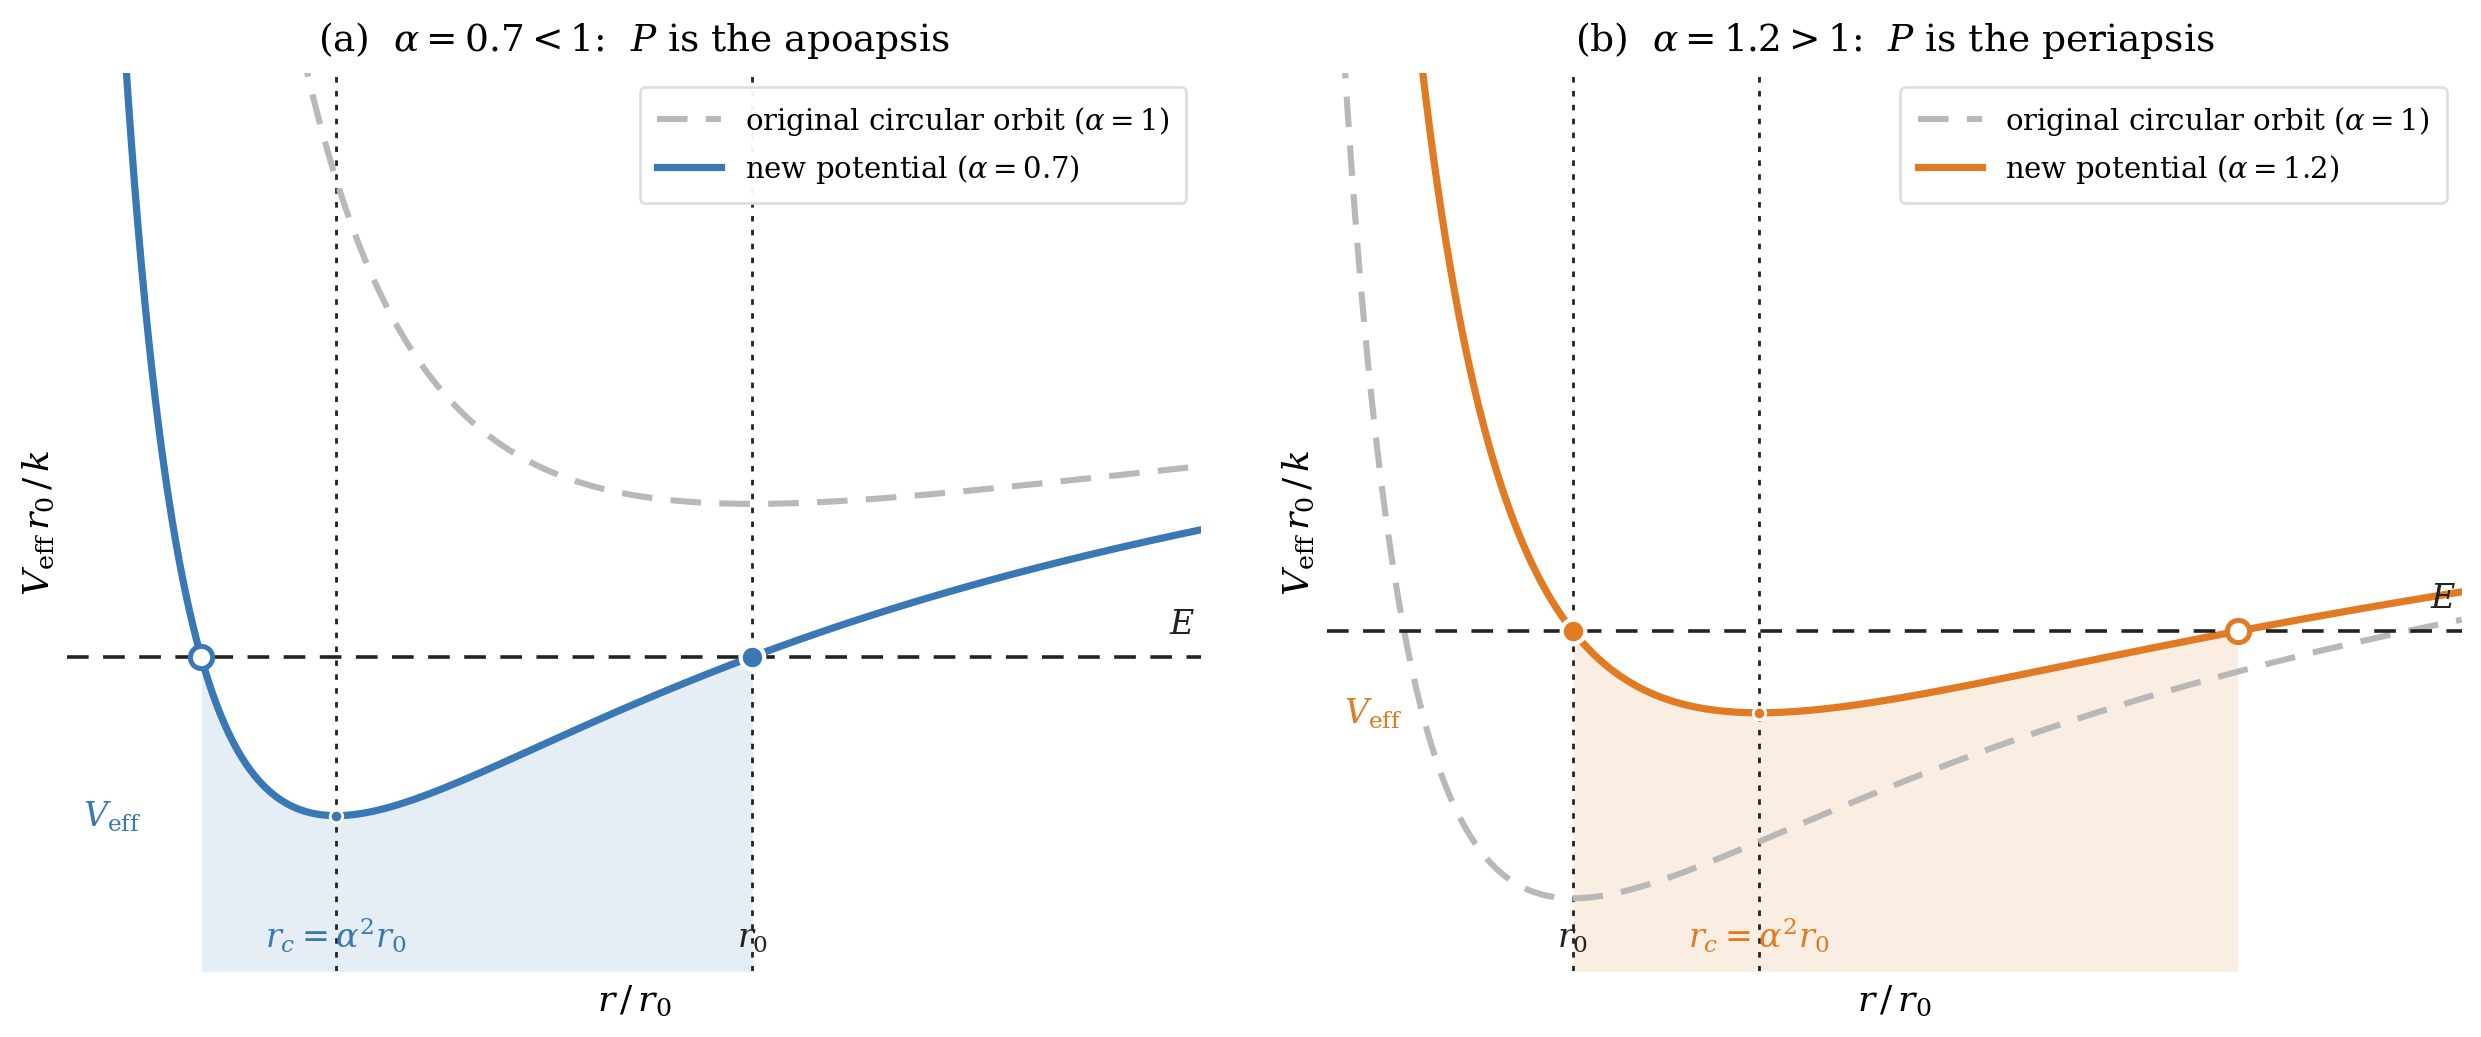
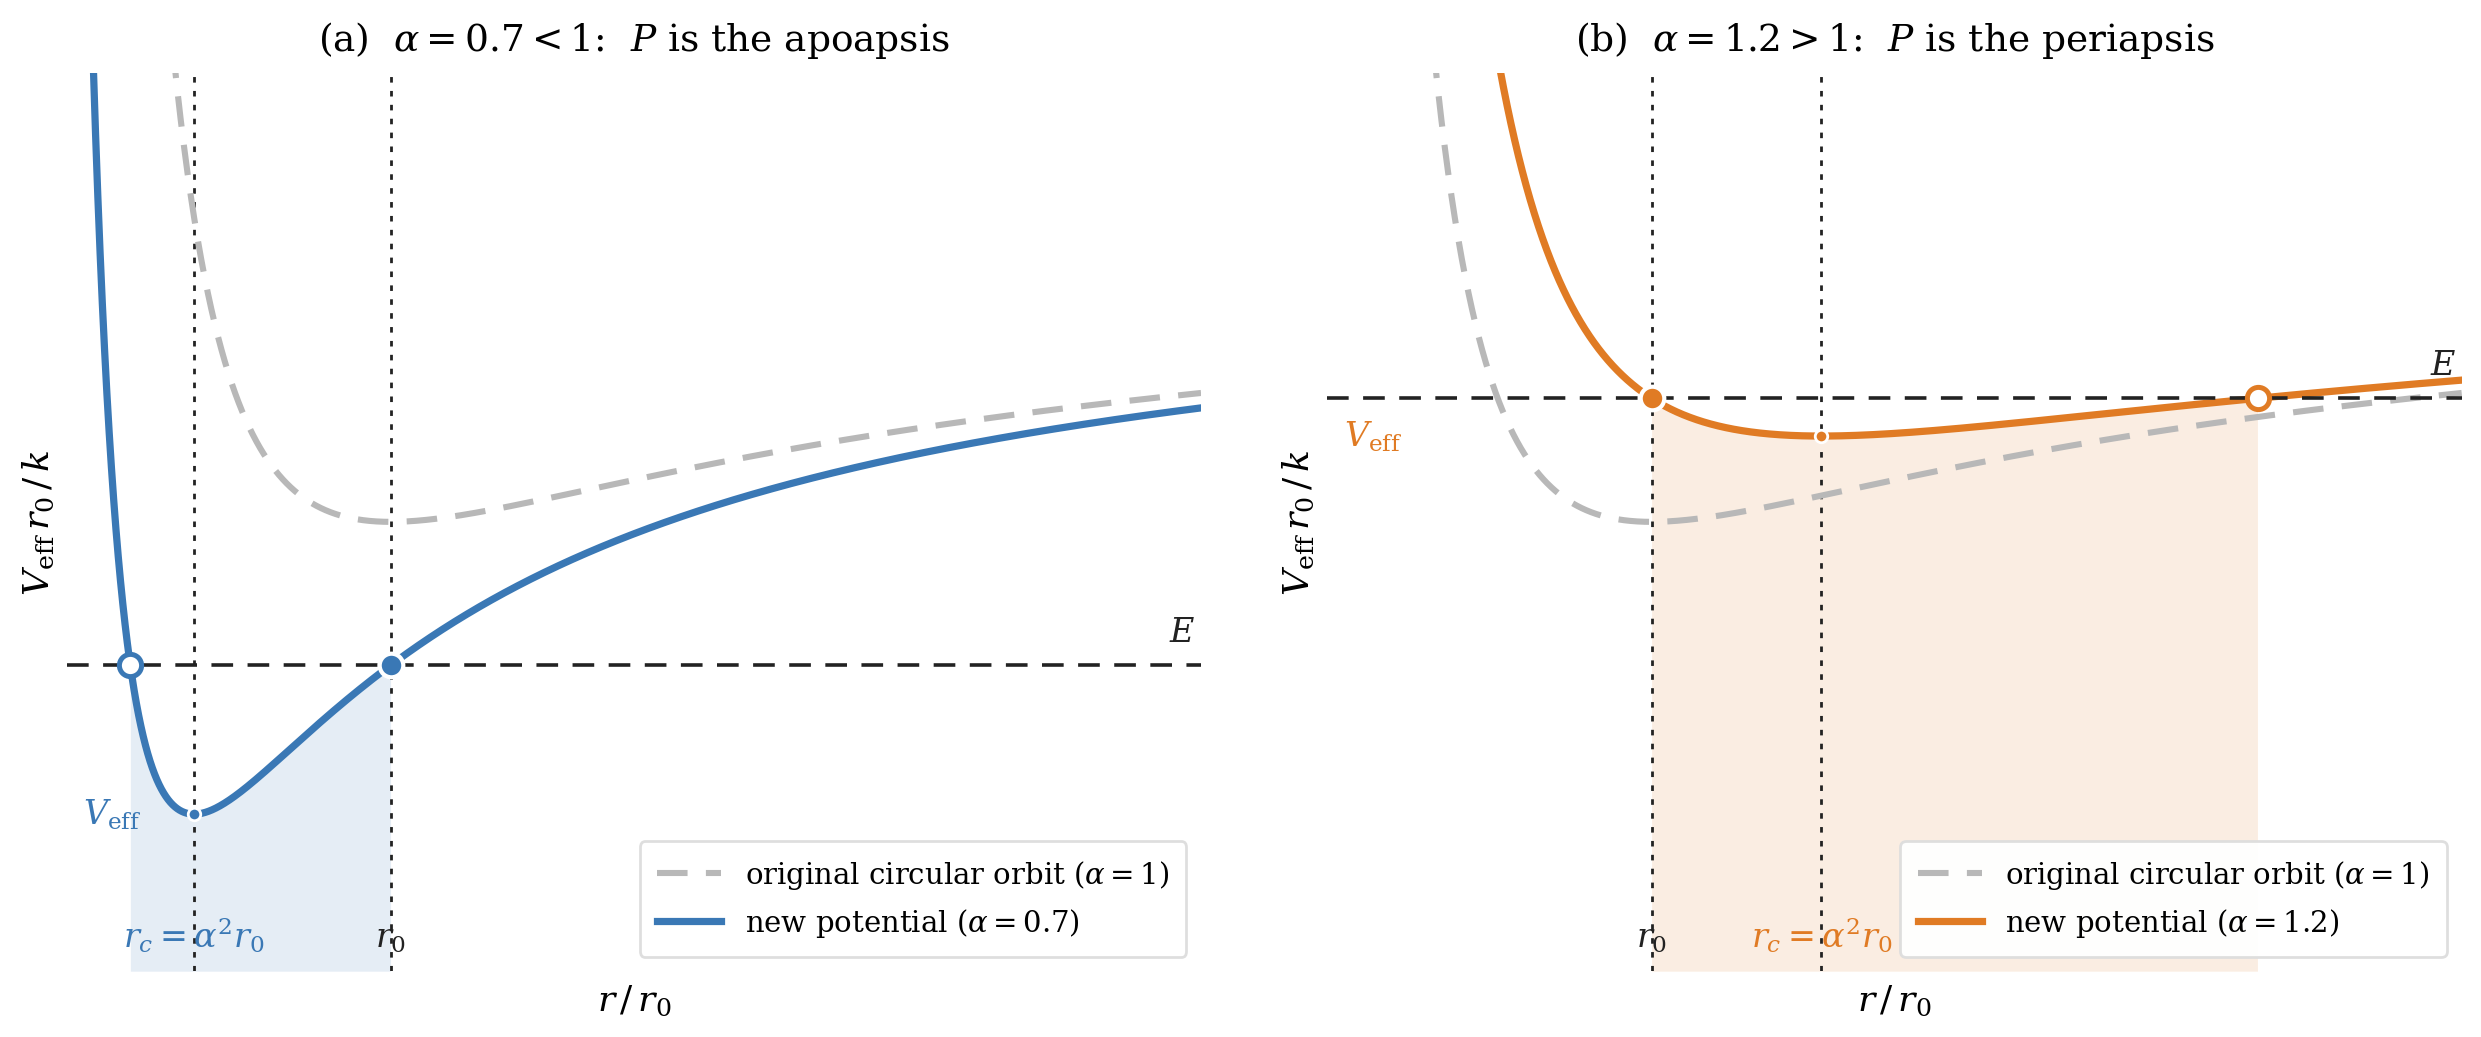
Sync book 2026-11-26 16:03

diff --git a/2026Teaching/Book/LectureNotesFigures/make_effective_potential_tangential_impulse.py b/2026Teaching/Book/LectureNotesFigures/make_effective_potential_tangential_impulse.py
@@ -16,6 +16,10 @@ Panel (a): alpha = 0.7 < 1, the well moves inward, r0 is the outer turning
            point and P is the apoapsis.
 Panel (b): alpha = 1.2 > 1, the well moves outward, r0 is the inner turning
            point and P is the periapsis.
+
+Both panels use the same r grid and the same axis limits, so the dashed
+original potential (alpha = 1) is identical in the two panels and can be
+compared directly.
 """
 
 import numpy as np
@@ -51,21 +55,24 @@ def effective_potential(r, alpha):
 
 
 # ---------------------------------------------------------------------------
-# Panels
+# Shared axes and data
 # ---------------------------------------------------------------------------
+XLIM = (0.16, 3.10)
+YLIM = (-1.30, 0.30)
+
+# One common grid: the original potential is evaluated once and reused.
+r = np.linspace(XLIM[0], XLIM[1], 3000)
+V_old = effective_potential(r, 1.0)
+
 panels = [
     {
         "alpha": 0.7,
         "color": BLUE,
-        "xlim": (0.16, 1.55),
-        "ylim": (-1.28, 0.22),
         "title": r"(a)  $\alpha=0.7<1$:  $P$ is the apoapsis",
     },
     {
         "alpha": 1.2,
         "color": ORANGE,
-        "xlim": (0.42, 3.10),
-        "ylim": (-0.56, 0.18),
         "title": r"(b)  $\alpha=1.2>1$:  $P$ is the periapsis",
     },
 ]
@@ -81,21 +88,17 @@ for ax, panel in zip(axes, panels):
     r_turn = alpha**2 / (2.0 - alpha**2)  # the other turning point
     r_lo, r_hi = sorted((1.0, r_turn))  # classically allowed interval
 
-    r = np.linspace(panel["xlim"][0], panel["xlim"][1], 2000)
     V_new = effective_potential(r, alpha)
-    V_old = effective_potential(r, 1.0)
 
-    # Original circular potential: dashed grey
-    ax.plot(r, V_old, color=GRAY, lw=2.2, ls=(0, (5, 3)), zorder=2,
-            label=r"original circular orbit ($\alpha=1$)")
+    # Original circular potential: dashed grey (same data in both panels)
+    ax.plot(r, V_old, color=GRAY, lw=2.2, ls=(0, (5, 3)), zorder=2)
 
     # New effective potential: solid colour
-    ax.plot(r, V_new, color=color, lw=2.6, zorder=3,
-            label=rf"new potential ($\alpha={alpha}$)")
+    ax.plot(r, V_new, color=color, lw=2.6, zorder=3)
 
     # Classically allowed region between the turning points
     mask = (r >= r_lo) & (r <= r_hi)
-    ax.fill_between(r[mask], panel["ylim"][0], V_new[mask],
+    ax.fill_between(r[mask], YLIM[0], V_new[mask],
                     color=color, alpha=0.13, lw=0, zorder=1)
 
     # New energy: horizontal dashed line
@@ -115,24 +118,24 @@ for ax, panel in zip(axes, panels):
             zorder=5)
 
     # Annotations
-    ax.annotate(r"$r_0$", xy=(1.0, panel["ylim"][0]),
+    ax.annotate(r"$r_0$", xy=(1.0, YLIM[0]),
                 xytext=(0, 6), textcoords="offset points",
                 ha="center", va="bottom", fontsize=12, color=DARK)
-    ax.annotate(r"$r_c=\alpha^2 r_0$", xy=(r_c, panel["ylim"][0]),
+    ax.annotate(r"$r_c=\alpha^2 r_0$", xy=(r_c, YLIM[0]),
                 xytext=(0, 6), textcoords="offset points",
                 ha="center", va="bottom", fontsize=12, color=color)
-    ax.annotate(r"$E$", xy=(panel["xlim"][1], E),
+    ax.annotate(r"$E$", xy=(XLIM[1], E),
                 xytext=(-2, 6), textcoords="offset points",
                 ha="right", va="bottom", fontsize=12, color=DARK)
-    ax.annotate(r"$V_{\rm eff}$", xy=(panel["xlim"][0], V_min),
+    ax.annotate(r"$V_{\rm eff}$", xy=(XLIM[0], V_min),
                 xytext=(6, 0), textcoords="offset points",
                 ha="left", va="center", fontsize=12, color=color)
 
     # Axis labels
     ax.set_xlabel(r"$r\,/\,r_0$", fontsize=13)
     ax.set_ylabel(r"$V_{\rm eff}\,r_0\,/\,k$", fontsize=13)
-    ax.set_xlim(*panel["xlim"])
-    ax.set_ylim(*panel["ylim"])
+    ax.set_xlim(*XLIM)
+    ax.set_ylim(*YLIM)
     ax.set_xticks([])
     ax.set_yticks([])
     for spine in ("top", "right"):
@@ -145,7 +148,7 @@ for ax, panel in zip(axes, panels):
         Line2D([], [], color=color, lw=2.6,
                label=rf"new potential ($\alpha={alpha}$)"),
     ]
-    ax.legend(handles=handles, loc="upper right", frameon=True,
+    ax.legend(handles=handles, loc="lower right", frameon=True,
               framealpha=0.95, edgecolor="#dddddd", fontsize=10.5,
               handlelength=2.2, borderpad=0.6)
 
